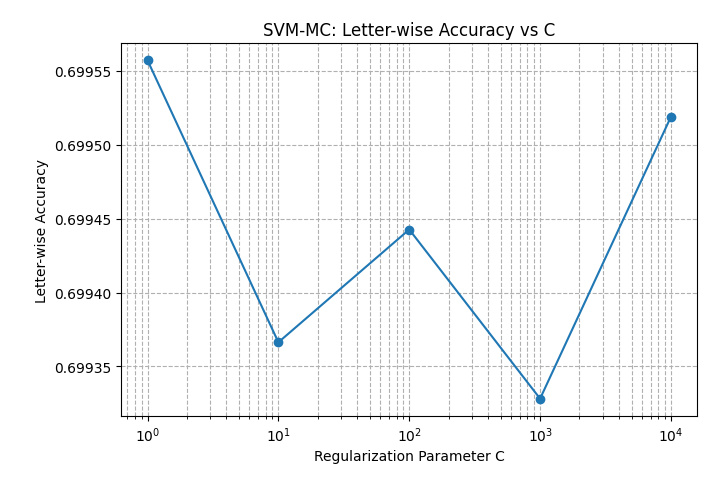
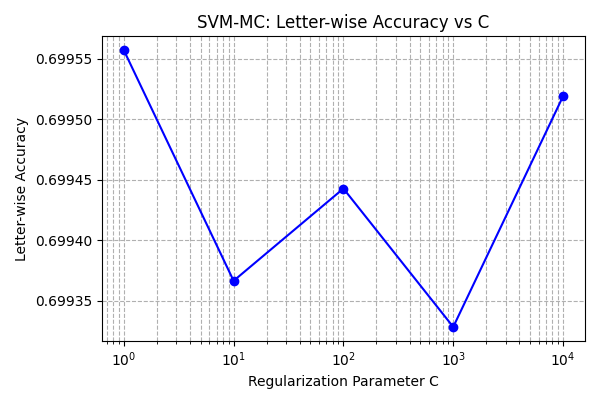
updated svm_mc

diff --git a/Lab_1/code/q3_svm_mc.py b/Lab_1/code/q3_svm_mc.py
@@ -6,33 +6,25 @@ from liblinear.liblinearutil import *
 import numpy as np
 import matplotlib.pyplot as plt
 
-# data file paths
-train_file = "../data/train_mc.txt"
-test_file = "../data/test_mc.txt"
+# file paths
+train_file_mc = "../data/train_mc.txt"
+test_file_mc = "../data/test_mc.txt"
+original_test_file = "../data/test.txt"  # contains word IDs for word-wise
 
+# letter-wise metric
+def letter_accuracy(y_true, y_pred):
+    y_true = np.array(y_true)
+    y_pred = np.array(y_pred)
+    return np.sum(y_true == y_pred) / len(y_true)
 
-def letter_accuracy(y_true_seq, y_pred_seq):
-    total_letters = 0
-    correct_letters = 0
-
-    for y_true, y_pred in zip(y_true_seq, y_pred_seq):
-        total_letters += len(y_true)
-        correct_letters += np.sum(y_true == y_pred)
-
-    return correct_letters / total_letters
-
-def word_accuracy(y_true_seq, y_pred_seq):
-    total_words = len(y_true_seq)
-    correct_words = 0
-
-    for y_true, y_pred in zip(y_true_seq, y_pred_seq):
-        if np.array_equal(y_true, y_pred):
-            correct_words += 1
-
+# word-wise metric
+def word_accuracy(y_true_words, y_pred_words):
+    total_words = len(y_true_words)
+    correct_words = sum(np.array_equal(t, p) for t, p in zip(y_true_words, y_pred_words))
     return correct_words / total_words
 
 def split_words(labels, word_lengths):
-    """Convert flat label list into a list of words given word lengths."""
+    """Convert flat label list into list of words given word lengths"""
     words = []
     idx = 0
     for length in word_lengths:
@@ -40,71 +32,71 @@ def split_words(labels, word_lengths):
         idx += length
     return words
 
-def get_word_lengths(file_path):
-    """Assume sequential letters for words in MC file; compute lengths of each word from qid fields."""
+def get_word_lengths_from_original(file_path):
+    """Read original test.txt and compute number of letters per word"""
     word_lengths = []
-    current_qid = None
+    current_word = None
     count = 0
     with open(file_path, 'r') as f:
         for line in f:
             tokens = line.strip().split()
             if not tokens:
                 continue
-            # MC format uses qid:X to indicate word
-            qid = int(tokens[1].split(":")[1])
-            if current_qid is None:
-                current_qid = qid
+            word_id = int(tokens[3])  # 4th field is word_id
+            if current_word is None:
+                current_word = word_id
                 count = 1
-            elif qid == current_qid:
+            elif word_id == current_word:
                 count += 1
             else:
                 word_lengths.append(count)
-                current_qid = qid
+                current_word = word_id
                 count = 1
         if count > 0:
             word_lengths.append(count)
     return word_lengths
 
-# use library to read in data
-y_train, x_train = svm_read_problem(train_file)
-y_test, x_test = svm_read_problem(test_file)
-y_test_arr = np.array(y_test) # need to convert for using
+# load in data
+y_train, x_train = svm_read_problem(train_file_mc)
+y_test, x_test = svm_read_problem(test_file_mc)
+y_test_arr = np.array(y_test)
+
+# compute word lengths and split true labels for word-wise evaluation
+test_word_lengths = get_word_lengths_from_original(original_test_file)
+y_test_words = split_words(y_test_arr, test_word_lengths)
 
 print("training samples:", len(y_train))
 print("test samples:", len(y_test))
+print("number of test words:", len(y_test_words))
 
-# compute test word lengths for word-wise accuracy
-test_word_lengths = get_word_lengths(test_file)
-y_test_words = split_words(y_test_arr, test_word_lengths)
-
-# C-search values
+# c values
 C_values = [1, 10, 100, 1000, 10000]
 letter_accuracies = []
 word_accuracies = []
 
-print("\nstarting C-search sweep...")
 for C in C_values:
     print(f"\ntraining with C={C} ...")
-    model_c = train(y_train, x_train, f"-c {C}")
+    model = train(y_train, x_train, f"-c {C}")
 
-    print(f"\npredicting with C={C} ...")
-    pred_labels_c, _, _ = predict(y_test, x_test, model_c, options="-q")
-    pred_labels_c_arr = np.array(pred_labels_c)
-    pred_labels_words = split_words(pred_labels_c_arr, test_word_lengths)
+    print(f"predicting with C={C} ...")
+    y_pred, _, _ = predict(y_test, x_test, model, options="-q")
+    y_pred_arr = np.array(y_pred)
+    y_pred_words = split_words(y_pred_arr, test_word_lengths)
 
     # compute accuracies
-    acc_c_letter = letter_accuracy([y_test_arr], [pred_labels_c_arr])
-    acc_c_word = word_accuracy(y_test_words, pred_labels_words)
-    letter_accuracies.append(acc_c_letter)
-    word_accuracies.append(acc_c_word)
+    acc_letter = letter_accuracy(y_test_arr, y_pred_arr)
+    acc_word = word_accuracy(y_test_words, y_pred_words)
 
-    print(f"letter-wise accuracy for C={C}: {acc_c_letter:.4f}")
-    print(f"word-wise accuracy for C={C}: {acc_c_word:.4f}")
+    letter_accuracies.append(acc_letter)
+    word_accuracies.append(acc_word)
 
-# plot letter-wise accuracy vs C
-plt.figure(figsize=(6, 4))
-plt.plot(C_values, letter_accuracies, marker='o')
-plt.xscale('log')  # C is varied logarithmically
+    print(f"Letter-wise accuracy: {acc_letter:.4f}")
+    print(f"Word-wise accuracy:   {acc_word:.4f}")
+
+# letter-wise
+plt.figure(figsize=(6,4))
+plt.plot(C_values, letter_accuracies, marker='o', color='blue')
+plt.xscale('log')
 plt.xlabel("Regularization Parameter C")
 plt.ylabel("Letter-wise Accuracy")
 plt.title("SVM-MC: Letter-wise Accuracy vs C")
@@ -112,10 +104,10 @@ plt.grid(True, which="both", ls="--")
 plt.tight_layout()
 plt.show()
 
-# plot word-wise accuracy vs C
-plt.figure(figsize=(6, 4))
-plt.plot(C_values, word_accuracies, marker='o')
-plt.xscale('log')  # C is varied logarithmically
+# word-wise
+plt.figure(figsize=(6,4))
+plt.plot(C_values, word_accuracies, marker='s', color='blue')
+plt.xscale('log')
 plt.xlabel("Regularization Parameter C")
 plt.ylabel("Word-wise Accuracy")
 plt.title("SVM-MC: Word-wise Accuracy vs C")
